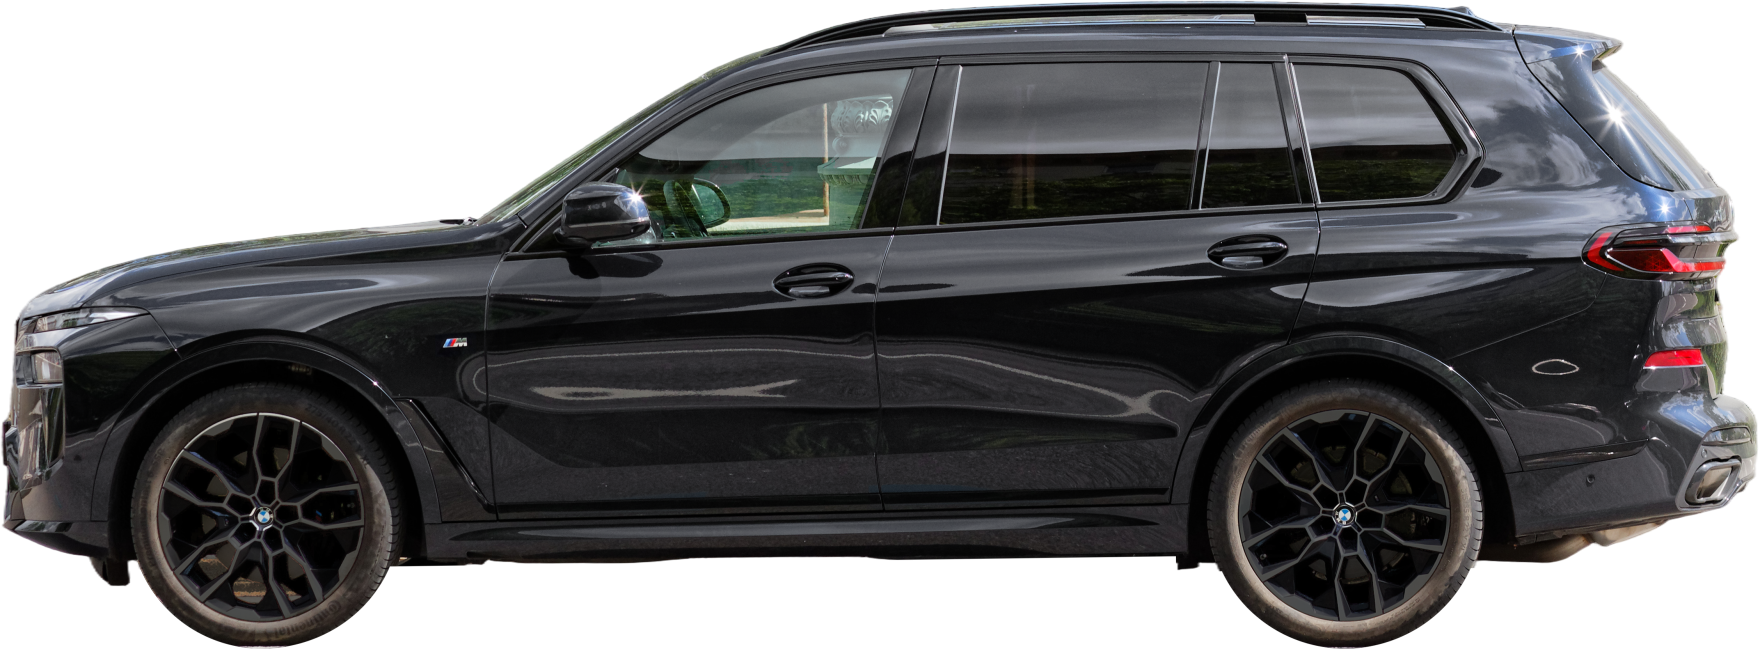
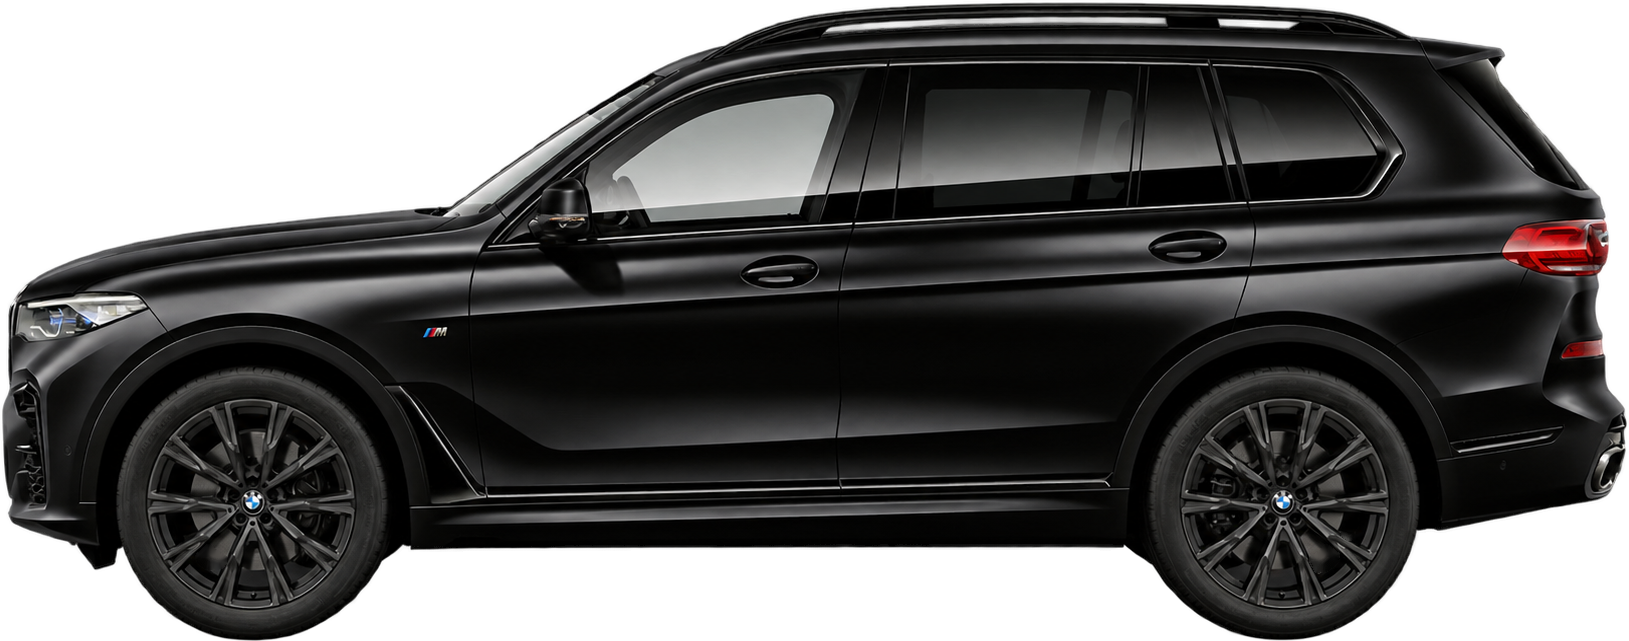
Use the owner-supplied Range Rover and BMW X7 photos
Replace range-rover-l460.png and bmw-x7.png with the owner's black side-view
cut-outs. A new pipeline step (owner.py) removes the alpha haze and the faint
ground shadow, makes the BMW's see-through wheel-spoke openings opaque, makes
the body fully opaque (it was alpha 249-254), and crops tight with the tyre
contact row on the bottom edge. edges.py then cleans the fringe. No white
halo was found. edges.py also gets its missing sys import.

carPixels now records the new sizes (1570x618, 1629x641). On-screen width
still comes from detailWidth, so the ground line and contact shadow line up
with the Ferrari as before. The Commons credits for the RR and X7 are removed,
both images are recorded as owner-supplied in ATTRIBUTION.md, and the asset
test checks every image is either credited or owner-supplied.

diff --git a/mobile/src/credits.ts b/mobile/src/credits.ts
@@ -1,24 +1,15 @@
-// Image credits for the vehicle photos (full record: assets/vehicles/ATTRIBUTION.md). Shown in the Add vehicle sheet,
-// because CC BY / CC BY-SA require visible attribution. Pure TS so tests can check it against ATTRIBUTION.md.
+// Image credits for the Wikimedia Commons vehicle photos (full record: assets/vehicles/ATTRIBUTION.md). Shown in the Add
+// vehicle sheet, because CC BY / CC BY-SA require visible attribution. Pure TS so tests can check it against ATTRIBUTION.md.
 export type Credit = { vehicle: string; file: string; author: string; license: string; licenseUrl: string; source: string; changes: string };
 
 export const vehicleCredits: readonly Credit[] = [
-  {
-    vehicle: 'Range Rover (L460)', file: 'range-rover-l460.png', author: 'Damian B Oh', license: 'CC BY-SA 4.0',
-    licenseUrl: 'https://creativecommons.org/licenses/by-sa/4.0/',
-    source: 'https://commons.wikimedia.org/wiki/File:Land_Rover_Range_Rover_P530_Autobiography_LWB_L460_Santorini_Black_(10).jpg',
-    changes: 'Cut out, mirrored, glass tinted, wheels and trim darkened. The modified image is CC BY-SA 4.0.',
-  },
   {
     vehicle: 'Ferrari 296', file: 'ferrari-296.png', author: 'Phillip Pessar', license: 'CC BY 4.0',
     licenseUrl: 'https://creativecommons.org/licenses/by/4.0/',
     source: 'https://commons.wikimedia.org/wiki/File:Red_Ferrari_Brickell,_Miami_Florida_March_2026.jpg',
     changes: 'Cut out and recoloured from red to white.',
   },
-  {
-    vehicle: 'BMW X7', file: 'bmw-x7.png', author: 'Retired electrician', license: 'CC0 1.0',
-    licenseUrl: 'https://creativecommons.org/publicdomain/zero/1.0/',
-    source: 'https://commons.wikimedia.org/wiki/File:Moscow,_BMW_SUV,_Moskovsky-117_dredger,_May_2026_02.jpg',
-    changes: 'Cut out, paint neutralised to black, wheels darkened.',
-  },
 ];
+
+/** Vehicle images supplied by the app owner, who provided their source and licence. Not credited in the app. */
+export const ownerSuppliedImages: readonly string[] = ['range-rover-l460.png', 'bmw-x7.png'];

diff --git a/mobile/test/vehicleAssets.test.ts b/mobile/test/vehicleAssets.test.ts
@@ -4,7 +4,7 @@ import assert from 'node:assert/strict';
 import { existsSync, readFileSync } from 'node:fs';
 import { inflateSync } from 'node:zlib';
 import { carAspect, carPixels, profiles, shadows } from '../src/vehicleGeometry.ts';
-import { vehicleCredits } from '../src/credits.ts';
+import { ownerSuppliedImages, vehicleCredits } from '../src/credits.ts';
 
 const dir = new URL('../assets/vehicles/', import.meta.url).pathname;
 const files = ['range-rover-l460.png', 'ferrari-296.png', 'bmw-x7.png'];
@@ -93,9 +93,16 @@ test('alpha is clean: transparent corners, tight crop, one blob, no light halo',
   });
 });
 
-test('every vehicle image is credited in the app and in ATTRIBUTION.md', () => {
+test('every vehicle image is credited in the app or owner-supplied, and recorded in ATTRIBUTION.md', () => {
   const record = readFileSync(dir + 'ATTRIBUTION.md', 'utf8');
-  assert.deepEqual(vehicleCredits.map(credit => credit.file), files);
+  const credited = vehicleCredits.map(credit => credit.file);
+  assert.deepEqual([...credited, ...ownerSuppliedImages].sort(), [...files].sort());
+  assert.ok(credited.every(file => !ownerSuppliedImages.includes(file)), 'no image is both credited and owner-supplied');
+  for (const file of ownerSuppliedImages) {
+    const section = record.split('## ' + file)[1]?.split('\n## ')[0] ?? '';
+    assert.ok(/owner-supplied/i.test(section), file + ' recorded as owner-supplied');
+    assert.ok(!section.includes('wikimedia.org'), file + ' has no stale Commons source');
+  }
   for (const credit of vehicleCredits) {
     assert.ok(record.includes('## ' + credit.file), credit.file);
     assert.ok(record.includes(credit.source), credit.file + ' source');

diff --git a/mobile/src/vehicleGeometry.ts b/mobile/src/vehicleGeometry.ts
@@ -1,7 +1,7 @@
 // Vehicle stage geometry (Final / Light Floor), in design points. Pure TS so tests can check it against the PNGs.
 
 /** Pixel size of each vehicle PNG (asserted against the files in test/vehicleAssets.test.ts). */
-export const carPixels: readonly (readonly [number, number])[] = [[1760, 675], [1779, 542], [1759, 649]];
+export const carPixels: readonly (readonly [number, number])[] = [[1570, 618], [1779, 542], [1629, 641]];
 /** Intrinsic width / height of each vehicle PNG. */
 export const carAspect = carPixels.map(([w, h]) => w / h);
 /** Car width on the detail stage (pt). The card stage draws every car at `cardScale` of it. */

diff --git a/mobile/assets/vehicles/pipeline/owner.py b/mobile/assets/vehicles/pipeline/owner.py
@@ -1,0 +1,45 @@
+# owner.py in.png out.png : prepares an owner-supplied cut-out (RGBA, straight alpha, car facing left, already level).
+# 1. Drops the near-transparent haze around the car: only the largest alpha >= 16 blob plus a 2 px fringe ring stays.
+# 2. Makes see-through wheel openings solid (enclosed holes in the lower half; the roof-rail gap stays open) and fills
+#    their colour from the surrounding wheel by inpainting, so the floor layer never shows through a wheel.
+# 3. Snaps the body to full opacity (the supplied body alpha is 249-254, which would let the floor bleed through).
+# 4. Trims the ground haze under the tyres, drops detached specks, and crops to the alpha bounding box with no
+#    padding, so the tyre contact line is the bottom edge (one anti-aliased row, like the other assets).
+# Run edges.py on the result afterwards.
+import sys, numpy as np, cv2
+from PIL import Image
+
+src, dst = sys.argv[1:3]
+im = np.asarray(Image.open(src).convert('RGBA')).copy()
+rgb, a = im[..., :3].copy(), im[..., 3].copy()
+H = a.shape[0]
+
+k, lab, st, _ = cv2.connectedComponentsWithStats((a >= 16).astype(np.uint8), connectivity=4)
+car = (lab == 1 + np.argmax(st[1:, 4])).astype(np.uint8)
+a[cv2.dilate(car, np.ones((5, 5), np.uint8)) == 0] = 0
+
+k, lab, st, c = cv2.connectedComponentsWithStats((a < 128).astype(np.uint8), connectivity=4)
+border = set(np.unique(np.concatenate([lab[0], lab[-1], lab[:, 0], lab[:, -1]])))
+holes = np.zeros_like(car)
+for i in range(1, k):
+    if i not in border and c[i][1] > H / 2: holes[lab == i] = 1
+if holes.any():
+    holes = cv2.dilate(holes, np.ones((5, 5), np.uint8)) & (a < 255)
+    rgb = cv2.inpaint(np.ascontiguousarray(rgb), holes, 6, cv2.INPAINT_TELEA)
+    a[holes > 0] = 255
+print('wheel-opening px filled:', int(holes.sum()))
+
+inner = cv2.erode((a >= 16).astype(np.uint8), np.ones((9, 9), np.uint8)) > 0
+lower = np.zeros_like(inner); lower[H // 2:] = True
+a[(a >= 245) | (inner & lower)] = 255
+
+# Ground line: keep one anti-aliased row below the lowest solid tyre row; the faint ground haze under it goes.
+a[np.nonzero((a >= 128).any(1))[0].max() + 2:] = 0
+k, lab, st, _ = cv2.connectedComponentsWithStats((a > 0).astype(np.uint8), connectivity=4)
+a[lab != 1 + np.argmax(st[1:, 4])] = 0   # only the car's own blob (4-connected) survives
+ys, xs = np.nonzero(a)
+y0, y1, x0, x1 = ys.min(), ys.max() + 1, xs.min(), xs.max() + 1
+rgb[a == 0] = 0
+out = np.dstack([rgb, a])[y0:y1, x0:x1]
+Image.fromarray(out, 'RGBA').save(dst, optimize=True)
+print('crop', (x0, y0, x1, y1), '->', out.shape[1], 'x', out.shape[0])

diff --git a/mobile/assets/vehicles/pipeline/edges.py b/mobile/assets/vehicles/pipeline/edges.py
@@ -2,7 +2,7 @@
 # Pixels with alpha < 160 take the colour of the nearest opaque car pixels (normalised-convolution propagation);
 # 160..254 blend linearly toward it. Background colour therefore cannot survive in the anti-aliased fringe.
 # With "x7": also neutralise the green foliage seen through the top of the windscreen.
-import numpy as np, cv2
+import sys, numpy as np, cv2
 from PIL import Image
 src, dst = sys.argv[1:3]
 im = np.asarray(Image.open(src).convert('RGBA')).astype(np.float32) / 255.

diff --git a/mobile/assets/vehicles/ATTRIBUTION.md b/mobile/assets/vehicles/ATTRIBUTION.md
@@ -1,9 +1,12 @@
 # Vehicle images — sources, licenses, and edits
 
-All three side profiles are photographs from Wikimedia Commons, used under the license stated on each file page
-(checked through the Commons API on 2026-11-14; the SHA-1 of each downloaded original matched the API).
-The modified files keep the same license. They are credited in the app under **＋ (Add vehicle) → Image credits**,
-which links to each source page (`src/credits.ts`).
+The Range Rover and BMW X7 side profiles are **owner-supplied**. The app owner provided them, along with their source and licence
+(listed in `ownerSuppliedImages` in `src/credits.ts`). They are not credited in the app.
+
+The Ferrari 296 is a photograph from Wikimedia Commons, used under the license stated on its file page
+(checked through the Commons API on 2026-11-14; the SHA-1 of the downloaded original matched the API).
+The modified file keeps the same license. It is credited in the app under **＋ (Add vehicle) → Image credits**,
+which links to the source page (`src/credits.ts`).
 
 The pipeline scripts are in `pipeline/` (see its README). Every image also went through a final **edge pass** (`pipeline/edges.py`). Anti-aliased fringe pixels with alpha < 160 take the colour of the nearest opaque car pixels, and alpha 160–254 blends toward it. Background colour therefore cannot survive in the fringe.
 
@@ -13,24 +16,26 @@ reflection is baked in. The app draws the floor ellipse and contact shadow as se
 
 | File | Vehicle / colour | Size (px) |
 |---|---|---|
-| `range-rover-l460.png` | Land Rover Range Rover (L460, LWB), Santorini Black, dark trim and wheels | 1760 × 675 |
+| `range-rover-l460.png` | Range Rover (L460), black, dark wheels (owner-supplied) | 1570 × 618 |
 | `ferrari-296.png` | Ferrari 296, recoloured white (target: **Bianco Avus**) | 1779 × 542 |
-| `bmw-x7.png` | BMW X7 (G07 LCI), black, dark wheels | 1759 × 649 |
+| `bmw-x7.png` | BMW X7 (G07), black, dark wheels (owner-supplied) | 1629 × 641 |
 
 ## range-rover-l460.png
 
-- **Source:** https://commons.wikimedia.org/wiki/File:Land_Rover_Range_Rover_P530_Autobiography_LWB_L460_Santorini_Black_(10).jpg
-- **Original:** https://upload.wikimedia.org/wikipedia/commons/c/cc/Land_Rover_Range_Rover_P530_Autobiography_LWB_L460_Santorini_Black_%2810%29.jpg (3918 × 2939, SHA-1 `b2cf9be39b743277335b4bd127a68e2ba3c488de`)
-- **Author:** Damian B Oh (own work)
-- **License:** CC BY-SA 4.0 — https://creativecommons.org/licenses/by-sa/4.0/. This modified image is shared under CC BY-SA 4.0 as well.
-- **Edits:**
-  - Background removed with BiRefNet (general) segmentation. Edge pixels were colour-decontaminated (closed-form unmix against the propagated background), with no light halo.
-  - Floor, ground shadow, and cables below the sill line removed. Tyres kept as solid hulls.
-  - Rotated −0.14° so both tyre contact points sit on one line, then mirrored horizontally so the car faces left like the other assets.
-  - Side glass given a privacy tint (highlights compressed, 40 % desaturated). This hides the showroom, trees, and window stickers seen through the glass.
-  - Satin-silver side vent blade and its script darkened to gloss black; machined alloy wheel faces darkened to dark gunmetal; raised tyre-sidewall lettering softened, so the mirrored text is unreadable.
-  - Cropped to the alpha bounding box and resampled (premultiplied, area filter) ×0.584.
-  - The paint was already black (Santorini Black), so no body recolouring was needed.
+- **Source:** owner-supplied. The app owner provided the image, its source, and its licence. File: `range-rover-black-owner.png`, 1672 × 941 RGBA, transparent background, facing left.
+- **Edits** (`pipeline/owner.py`, then `pipeline/edges.py`):
+  - Removed the near-transparent haze (alpha 1–15) spread across the canvas, including a faint ground shadow. Only the car's own blob and a 2 px anti-aliased ring are kept.
+  - Body alpha snapped from 249–254 to 255, so the floor no longer shows through the paint.
+  - Trimmed the ground haze under the tyres and cropped to the alpha bounding box (no padding). Both tyres already touched the same row, so no levelling was needed. Not mirrored, not resampled.
+  - Edge pass: the fringe was already dark (no white halo). It now takes the car's own colour.
+
+## bmw-x7.png
+
+- **Source:** owner-supplied. The app owner provided the image, its source, and its licence. File: `bmw-x7-black-owner.png`, 1672 × 941 RGBA, transparent background, facing left.
+- **Edits** (`pipeline/owner.py`, then `pipeline/edges.py`):
+  - The same haze removal, body-alpha snap, ground trim, and tight crop as the Range Rover. Already level; not mirrored, not resampled.
+  - The cut-out had see-through openings between the spokes of both wheels (1 270 px), where the floor would show through. These were made opaque and inpainted from the surrounding wheel, so the tyres stay solid hulls. The gap between the roof rail and the roof is a real opening and stays transparent.
+  - Edge pass as above. No white halo was found.
 
 ## ferrari-296.png
 
@@ -43,20 +48,6 @@ reflection is baked in. The app draws the floor ellipse and contact shadow as se
   - **Recoloured red → white.** No suitably licensed side photo of a white 296 was found. In linear light the red paint's diffuse shading (R − min(G, B)) was scaled ×1.5 and mapped onto a neutral, very slightly warm white (sRGB ≈ `#FFFEF9`). The specular / reflection component (min(G, B)) was kept, so reflections and highlights stay photographic. The Scuderia shield badge, yellow calipers, lights, glass, tyres, wheels, and carbon trim were left untouched.
   - Target white: **Bianco Avus**, Ferrari's standard solid white. The owner wrote 「ビアンコバードゲージ」, which does not match a Ferrari paint name we could identify. **Needs owner confirmation.** If it should be Bianco Cervino, Bianco Italia (tri-coat), or another white, the recolour target is the `white` constant in `pipeline/build.py`.
   - Rotated −0.33° to level the contact points. Cropped and resampled ×0.411. Not mirrored (already facing left).
-
-## bmw-x7.png
-
-- **Source:** https://commons.wikimedia.org/wiki/File:Moscow,_BMW_SUV,_Moskovsky-117_dredger,_May_2026_02.jpg
-- **Original:** https://upload.wikimedia.org/wikipedia/commons/6/6f/Moscow%2C_BMW_SUV%2C_Moskovsky-117_dredger%2C_May_2026_02.jpg (5190 × 3306, SHA-1 `ecd14ec63d0d303a3292f63fc54a4927ef1e2216`)
-- **Author:** Retired electrician (own work)
-- **License:** CC0 1.0 (public domain dedication) — http://creativecommons.org/publicdomain/zero/1.0/. No attribution is required; it is credited anyway.
-- **Vehicle check:** the file is titled "BMW SUV". The car is a BMW X7 G07 LCI (2022+): split headlights, large kidney grille, three side windows, and an X7 roofline.
-- **Edits:**
-  - Background removed (BiRefNet) and edges decontaminated as above. Floor and ground shadow removed; 104 px of enclosed mask holes filled.
-  - Blue cast of the dark paint reduced by 75 %, giving neutral black. The M badge was left untouched.
-  - Green foliage seen through the top of the windscreen desaturated, so it reads as glass.
-  - Alloy wheel faces darkened to dark gunmetal / black. Centre roundels kept.
-  - Rotated +0.74° to level the contact points. Cropped and resampled ×0.390. Not mirrored (already facing left).
 
 ## Verification
 

diff --git a/mobile/assets/vehicles/pipeline/README.md b/mobile/assets/vehicles/pipeline/README.md
@@ -1,6 +1,6 @@
 # Vehicle asset pipeline
 
-Reproduces `../*.png` from the Wikimedia Commons originals listed in `../ATTRIBUTION.md`.
+Reproduces `../*.png` from the originals listed in `../ATTRIBUTION.md` (Wikimedia Commons, plus the owner-supplied cut-outs).
 Requires Python 3 with numpy, opencv-python-headless, Pillow, and onnxruntime, plus the BiRefNet-general ONNX model.
 These scripts are not bundled into the app.
 
@@ -8,3 +8,4 @@ These scripts are not bundled into the app.
 2. `build.py <rr|fer|x7> <workdir> <outdir>`: ground cut, wheel hulls, colour work, edge decontamination, levelling, mirroring, and crop/scale. The per-car crop coordinates are in `CFG`. The Ferrari white target is the `white` constant (Bianco Avus); change it to match a different Ferrari white.
 3. `rr_glass.py <in> <out>`: privacy-tints the Range Rover's side glass.
 4. `edges.py <in> <out> [x7]`: final edge pass. Fringe pixels take the car's own colour; with `x7` it also neutralises the green seen through the top of the windscreen.
+5. `owner.py <in> <out>`: for owner-supplied cut-outs (already transparent, facing left, and level). It removes the alpha haze, makes wheel openings solid, makes the body fully opaque, trims the ground haze, and crops tight. Run `edges.py <out> <out>` afterwards.
